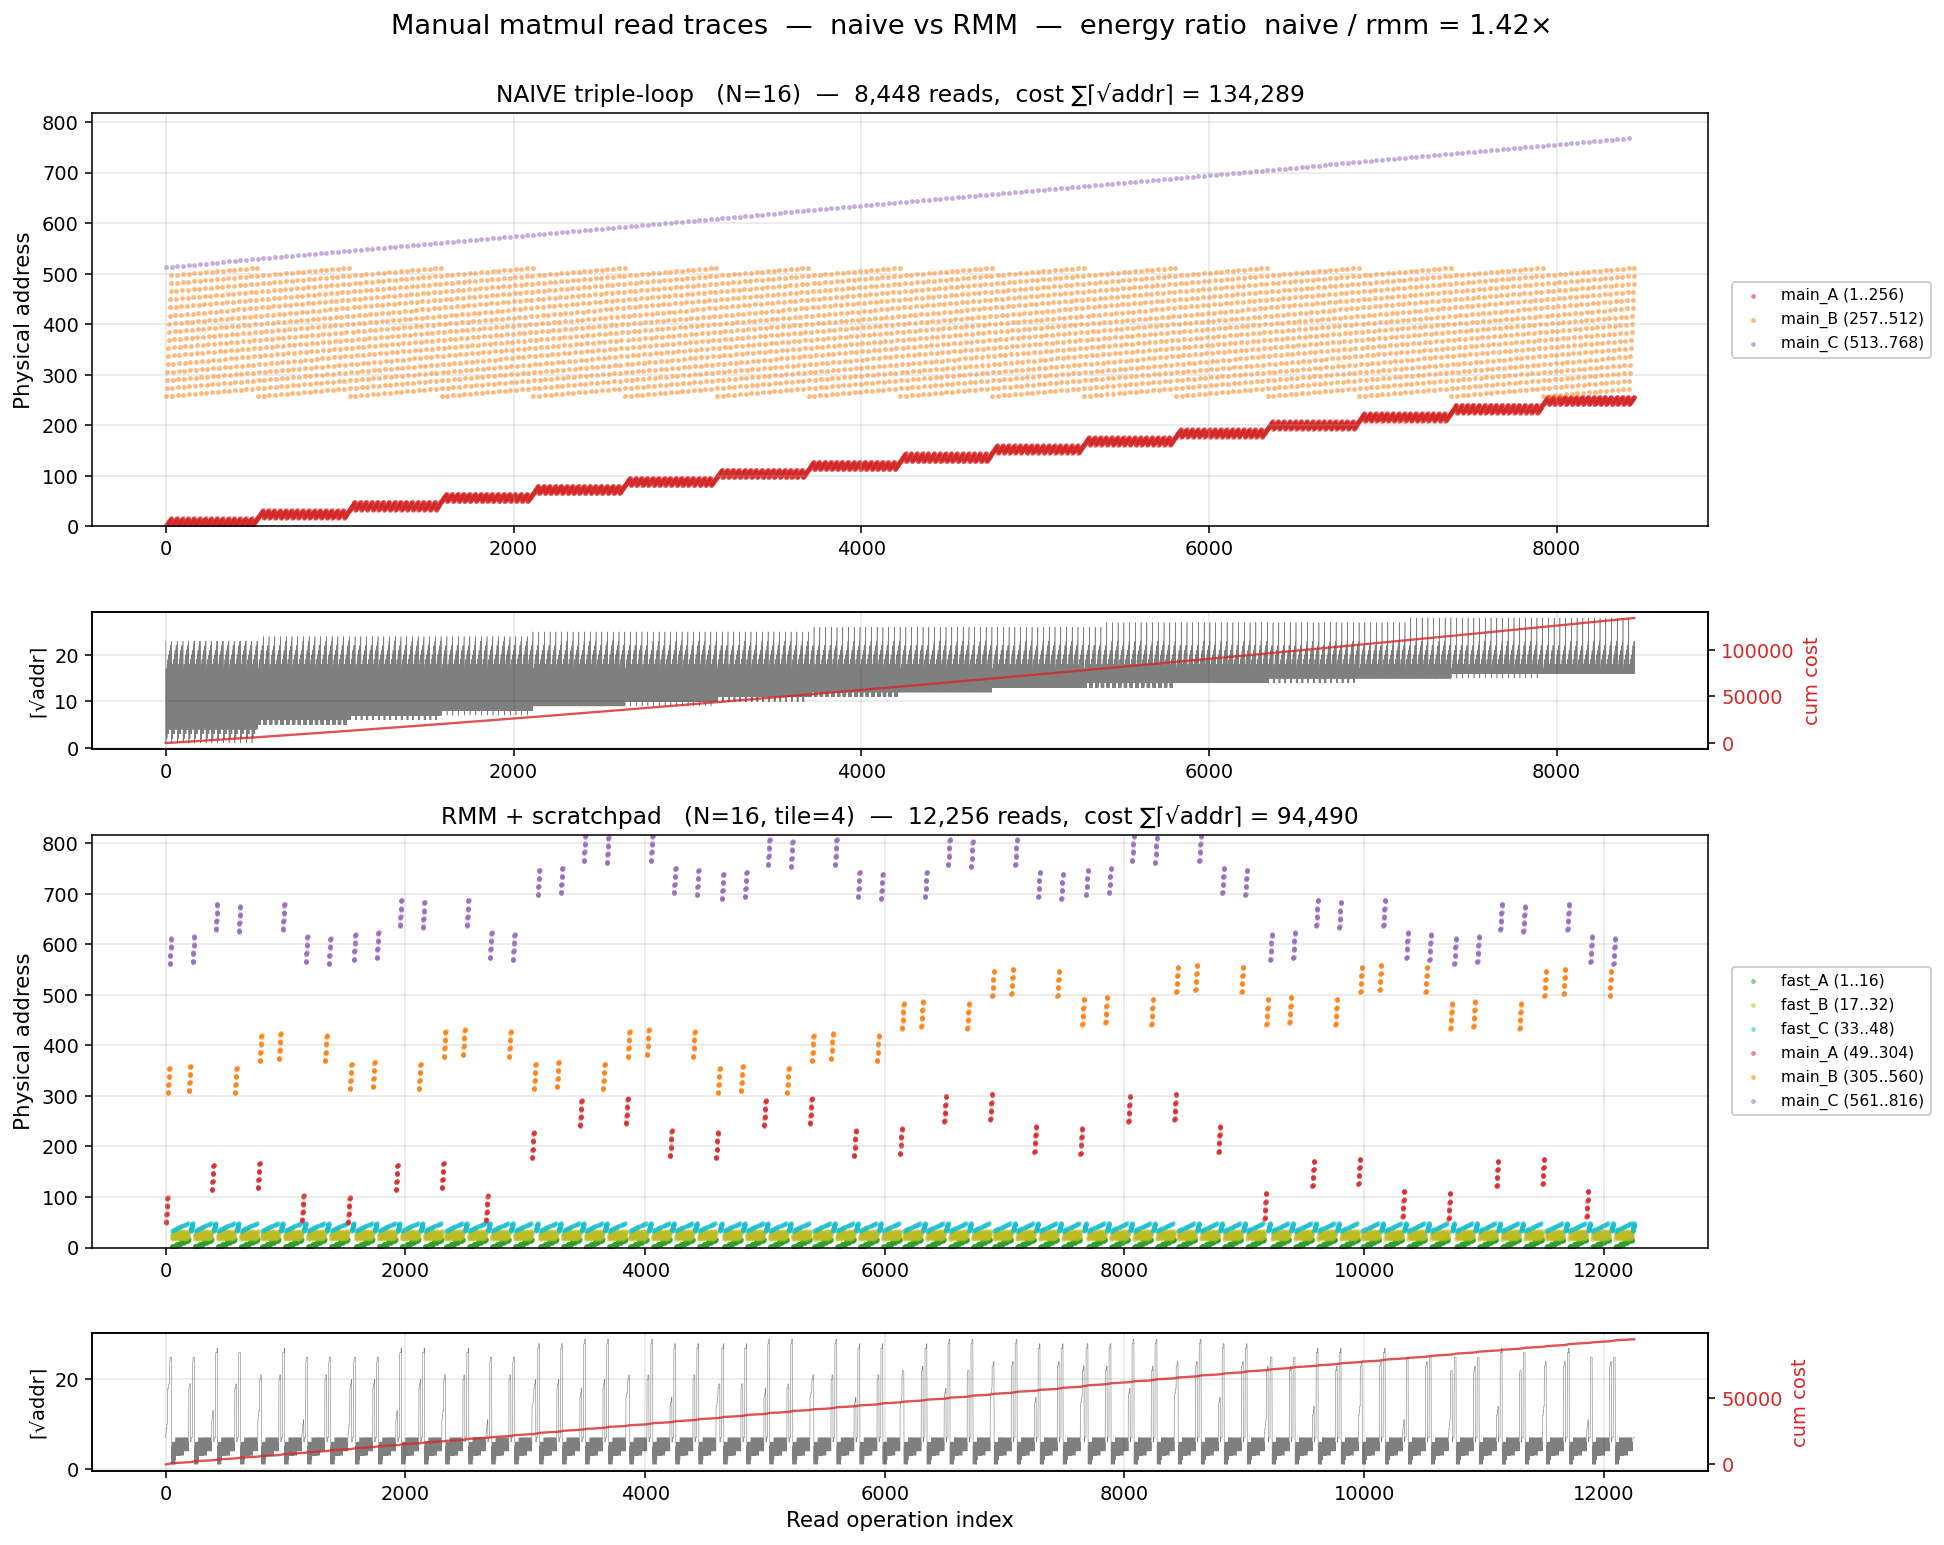
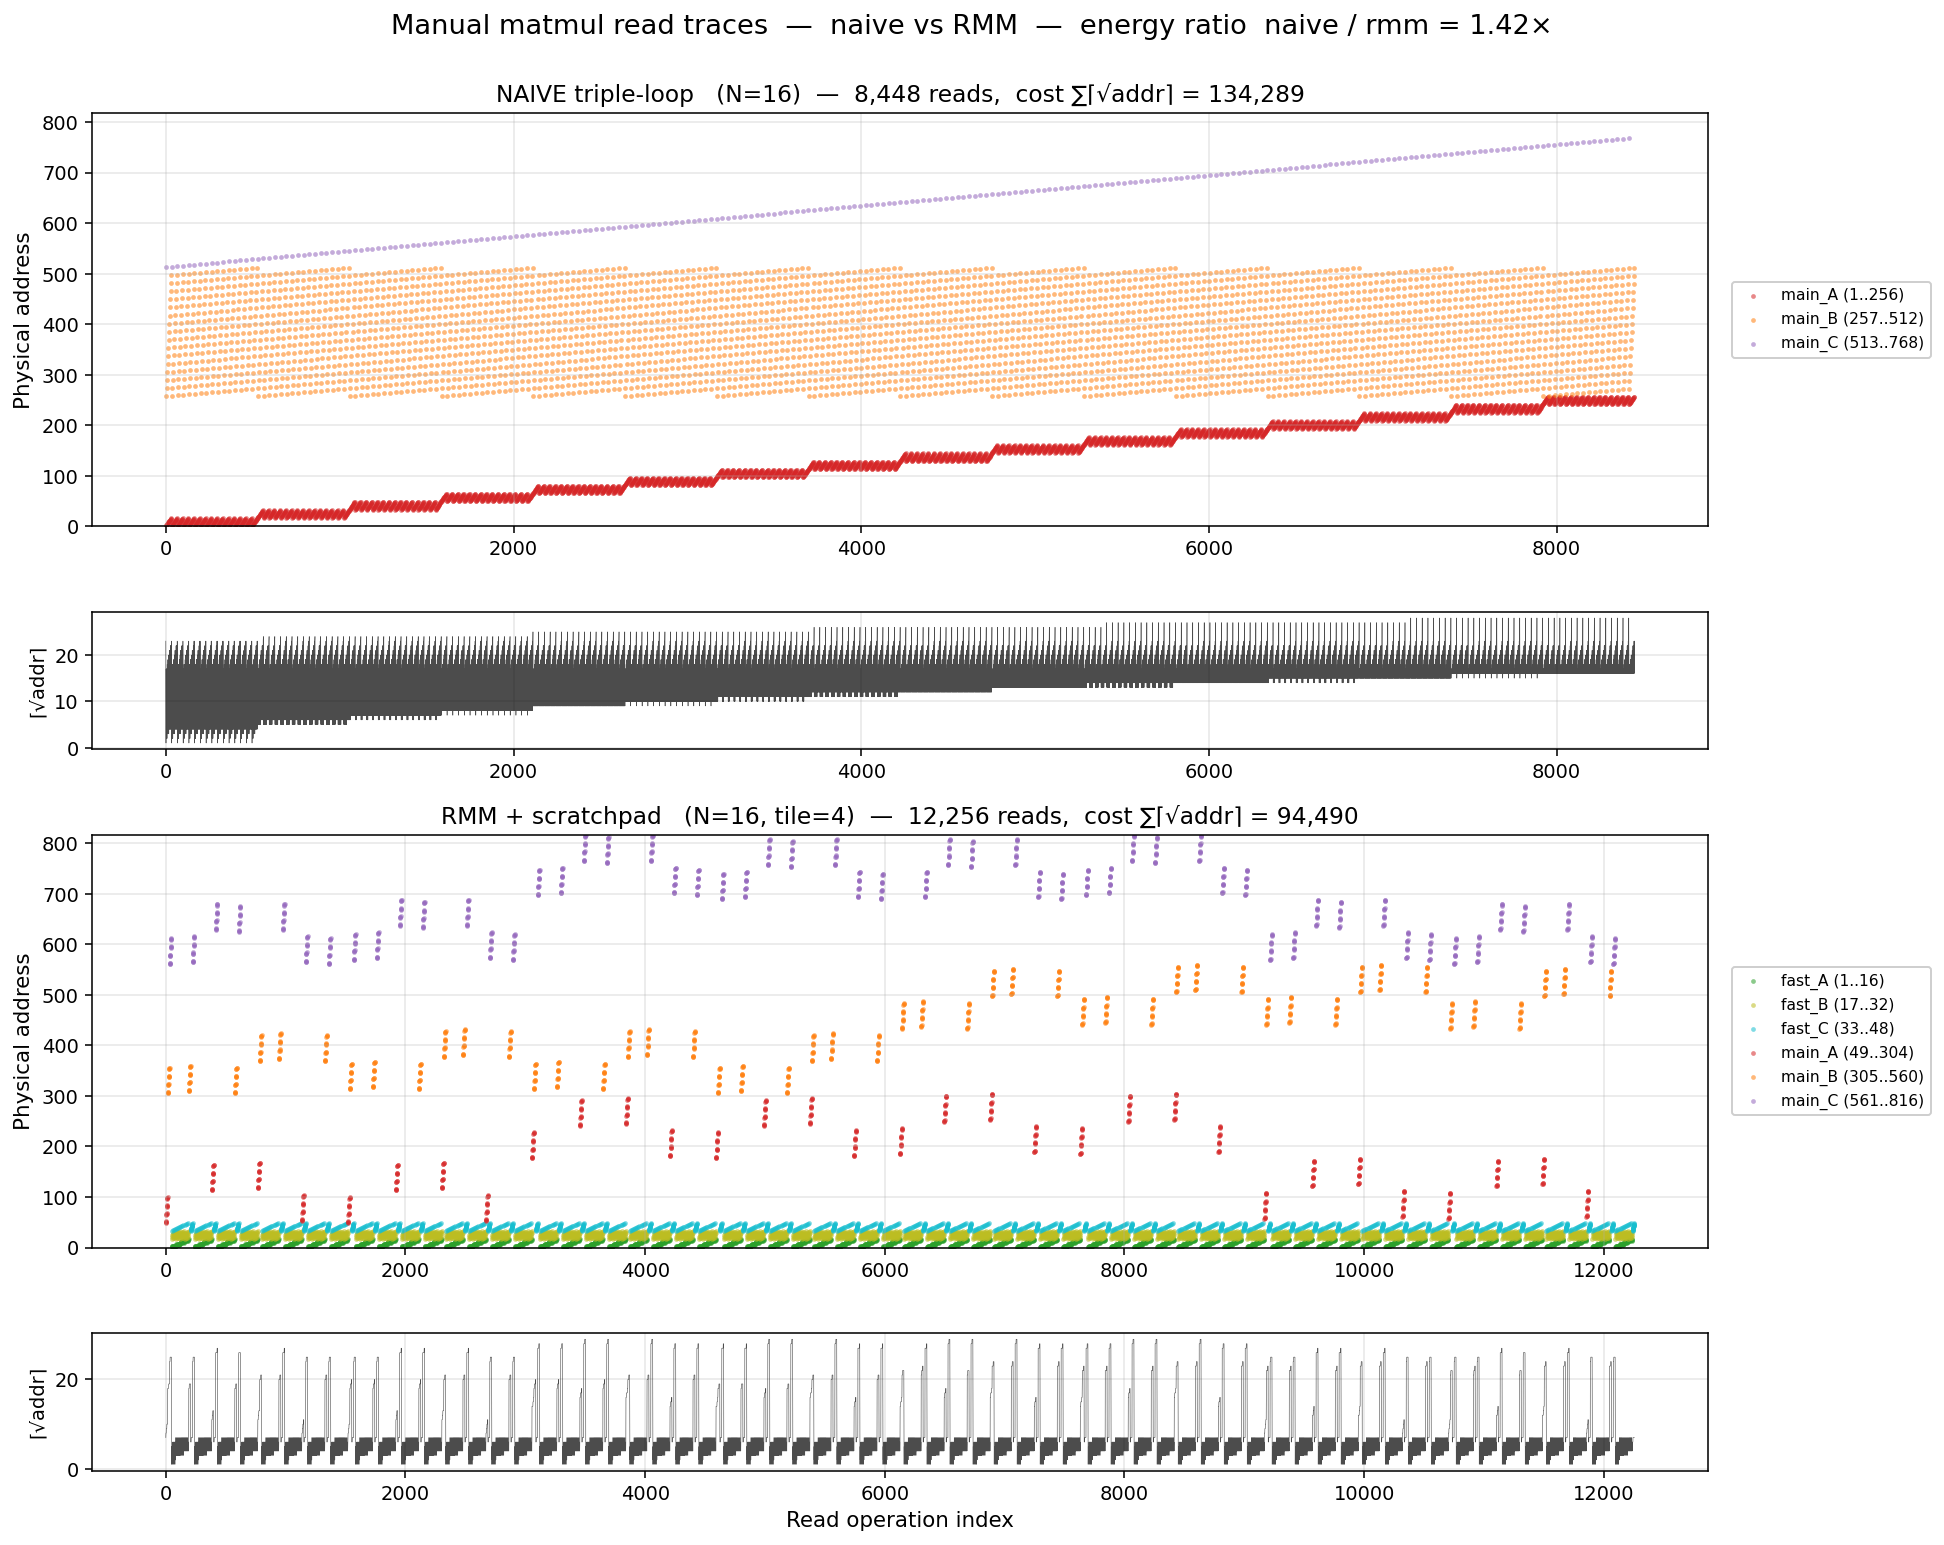
Drop cumulative cost line from manual trace plot
Leaves just the per-read cost line in the narrow panel under each
trace. Total cost is already in each panel's title.

diff --git a/experiments/live-vs-all/visualize_manual.py b/experiments/live-vs-all/visualize_manual.py
@@ -170,13 +170,9 @@ def _plot_trace_panel(ax_scatter, ax_cost, addrs, regions, algo_label, cost, y_m
                        framealpha=0.95)
 
     per_cost = np.array([math.isqrt(int(a) - 1) + 1 for a in ys])
-    ax_cost.plot(xs, per_cost, color='black', linewidth=0.3, alpha=0.5)
+    ax_cost.plot(xs, per_cost, color='black', linewidth=0.3, alpha=0.7)
     ax_cost.set_ylabel('⌈√addr⌉', fontsize=10)
     ax_cost.grid(True, alpha=0.3)
-    ax_cum = ax_cost.twinx()
-    ax_cum.plot(xs, np.cumsum(per_cost), color='tab:red', linewidth=1.2, alpha=0.8)
-    ax_cum.set_ylabel('cum cost', color='tab:red', fontsize=10)
-    ax_cum.tick_params(axis='y', labelcolor='tab:red')
 
 
 def plot_trace(N: int, tile_size: int, out_path: str) -> None:
